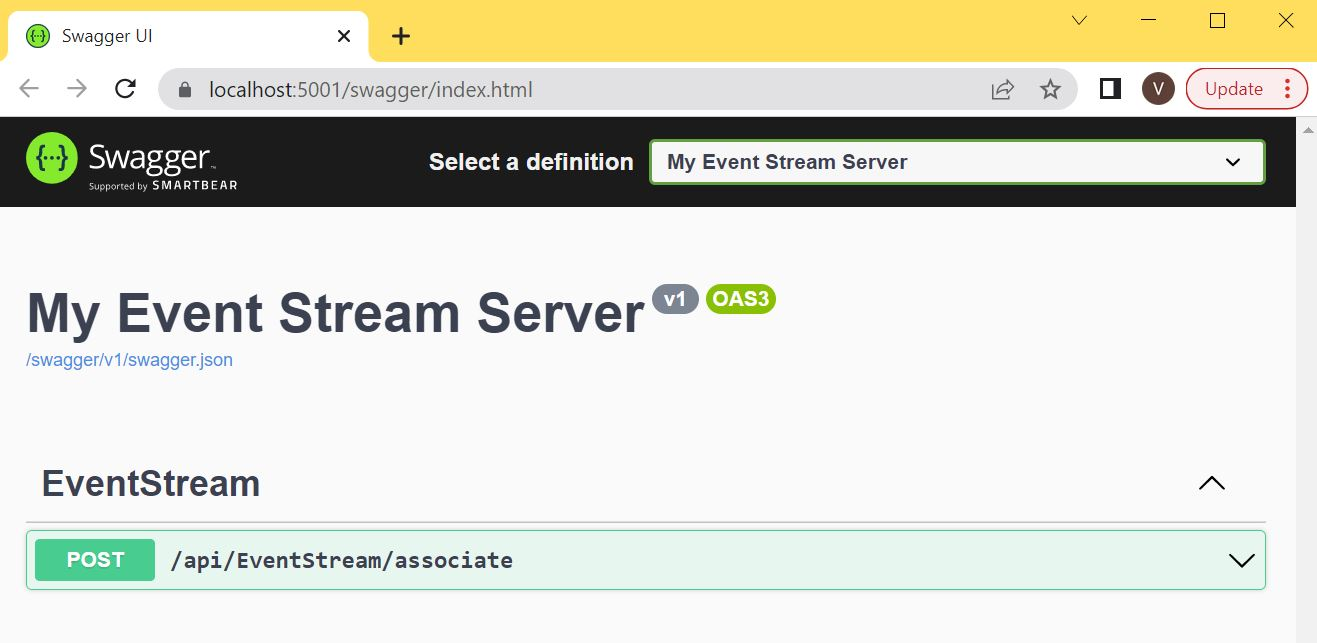
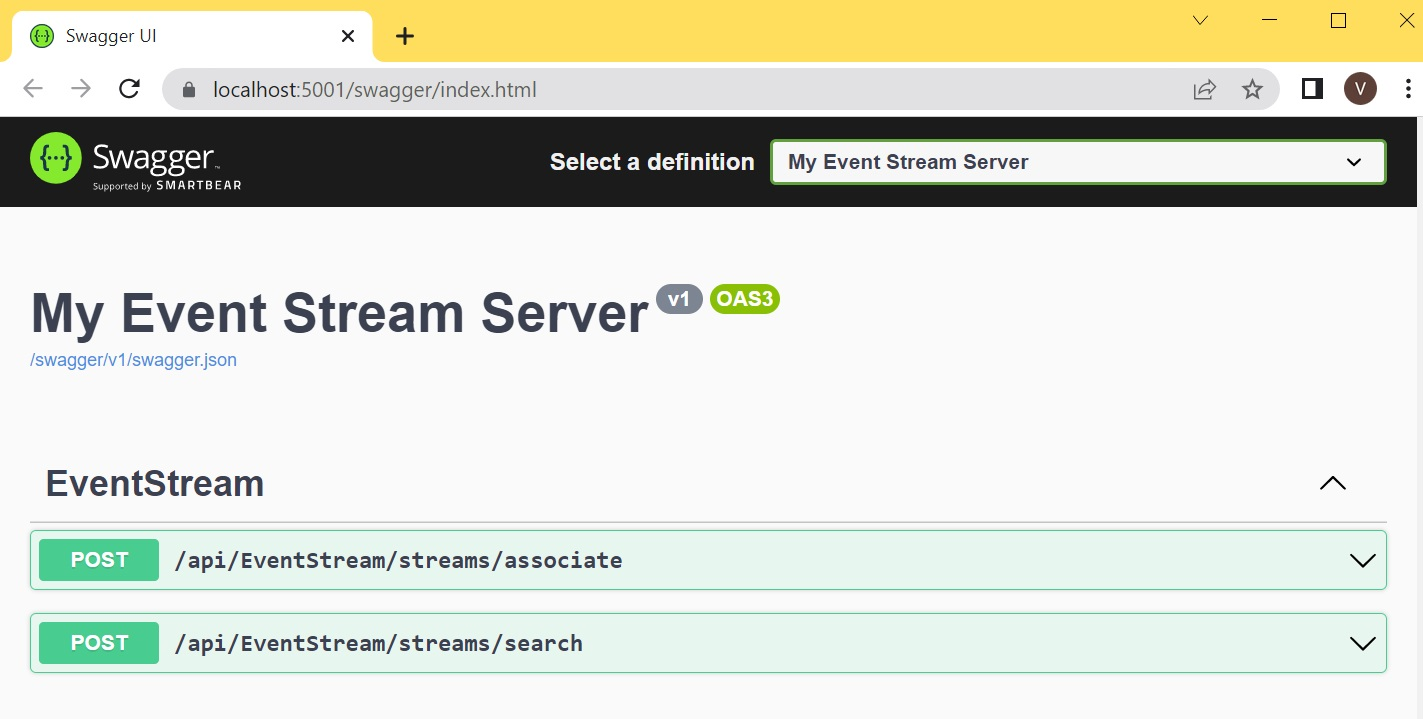
added endpoint to search for streams.

diff --git a/AspNetCore.SignalR.EventStream.Client/Program.cs b/AspNetCore.SignalR.EventStream.Client/Program.cs
@@ -96,7 +96,7 @@ await conn.InvokeAsync("Publish", associateStreamName, new[]
 Console.WriteLine($"Subscribing to Stream {streamName}.");
 await conn.InvokeAsync("Subscribe", streamName, eventType, receiveMethod, subscriberId, subscriberKey, null);
 
-//Console.ReadLine();
+////Console.ReadLine();
 
 using var client = new HttpClient();
 
@@ -106,9 +106,9 @@ var request = new
     Existing = true,
     AssociatedStreams = new[]
     {
-        new 
-        { 
-            Name = associateStreamName 
+        new
+        {
+            Name = associateStreamName
         }
     }
 };
@@ -117,13 +117,43 @@ var content = new StringContent(JsonConvert.SerializeObject(request),
   Encoding.UTF8,
   "application/json");
 
-var result = await client.PostAsync("https://localhost:5001/api/eventstream/associate", content);
+var result = await client.PostAsync("https://localhost:5001/api/eventstream/streams/associate", content);
 
 result.EnsureSuccessStatusCode();
 
 Thread.Sleep(1000);
+Console.WriteLine($"Publishing to Stream {associateStreamName}.");
+await conn.InvokeAsync("Publish", associateStreamName, new[]
+{
+    new {
+        Type = associateStreamEventType + "5",
+        Data = Encoding.UTF8.GetBytes("{\"a\":\"1\"}"),
+        MetaData = Encoding.UTF8.GetBytes("{}"),
+        IsJson = false
+    },
+    new {
+        Type = associateStreamEventType + "6",
+        Data = Encoding.UTF8.GetBytes("{\"a\":\"2\"}"),
+        MetaData = Encoding.UTF8.GetBytes("{}"),
+        IsJson = false
+    },
+    new {
+        Type = associateStreamEventType + "7",
+        Data = Encoding.UTF8.GetBytes("{\"a\":\"3\"}"),
+        MetaData = Encoding.UTF8.GetBytes("{}"),
+        IsJson = false
+    },
+    new {
+        Type = associateStreamEventType + "8",
+        Data = Encoding.UTF8.GetBytes("{\"a\":\"4\"}"),
+        MetaData = Encoding.UTF8.GetBytes("{}"),
+        IsJson = false
+    }
+});
 
 //Console.WriteLine($"Unsubscribing from Stream {streamName}.");
 //await conn.InvokeAsync("Unsubscribe", streamName, subscriberId, subscriberKey);
+
+Thread.Sleep(10000);
 
 Console.ReadLine();

diff --git a/AspNetCore.SignalR.EventStream/Services/EventStreamService.cs b/AspNetCore.SignalR.EventStream/Services/EventStreamService.cs
@@ -12,6 +12,30 @@ namespace AspNetCore.SignalR.EventStream.Services
             _repository = repository;
         }
 
+        public async Task<IEnumerable<EventStreamModel>> SearchStreams(SearchStreamsModel model)
+        {
+            var eventStreams = await _repository.SearchEventStreams(model.Name, model.StreamId);
+
+            var eventStreamModels = new List<EventStreamModel>();
+
+            foreach(var eventStream in eventStreams)
+            {
+                var eventStreamModel = new EventStreamModel
+                {
+                    Id = eventStream.Id,
+                    StreamId = eventStream.StreamId,
+                    Name = eventStream.Name,
+                    LastAssociatedAt = eventStream.LastAssociatedAt,
+                    LastEventInsertedAt = eventStream.LastEventInsertedAt,
+                    CreatedAt = eventStream.CreatedAt
+                };
+
+                eventStreamModels.Add(eventStreamModel);
+            }
+            
+            return eventStreamModels;
+        }
+
         public async Task<Guid> MergeStreams(AssociateStreamsModel mergeStreamModel)
         {
             bool streamExists = false;

diff --git a/AspNetCore.SignalR.EventStream/Repositories/SqlServerRepository.cs b/AspNetCore.SignalR.EventStream/Repositories/SqlServerRepository.cs
@@ -121,6 +121,14 @@ namespace AspNetCore.SignalR.EventStream.Repositories
             return await _context.EventStreamsAssociation.AnyAsync(s => s.StreamId == streamId && s.AssociatedStreamId == associatedStreamId);
         }
 
+        public async Task<IEnumerable<Entities.EventStream>> SearchEventStreams(string? name, Guid? streamId = null)
+        {
+            return await _context.EventsStream.Where(builder => builder.Initial(x => true)
+                                                                       .And(!string.IsNullOrEmpty(name), x => x.Name.ToLower().Contains(name.ToLower()))
+                                                                       .And(streamId.HasValue, x => x.StreamId == streamId.Value)
+                                                                       .ToExpressionPredicate()).ToListAsync();
+        }
+
         public async Task<Entities.EventStream> GetStreamAsync(Guid streamId, DateTime? from = null)
         {
             try

diff --git a/AspNetCore.SignalR.EventStream/Repositories/SqliteRepository.cs b/AspNetCore.SignalR.EventStream/Repositories/SqliteRepository.cs
@@ -123,6 +123,14 @@ namespace AspNetCore.SignalR.EventStream.Repositories
             return await _context.EventStreamsAssociation.AnyAsync(s => s.StreamId == streamId && s.AssociatedStreamId == associatedStreamId);
         }
 
+        public async Task<IEnumerable<Entities.EventStream>> SearchEventStreams(string? name, Guid? streamId = null)
+        {
+            return await _context.EventsStream.Where(builder => builder.Initial(x => true)
+                                                                       .And(!string.IsNullOrEmpty(name), x => x.Name.ToLower().Contains(name.ToLower()))
+                                                                       .And(streamId.HasValue, x => x.StreamId == streamId.Value)
+                                                                       .ToExpressionPredicate()).ToListAsync();
+        }
+
         public async Task<Entities.EventStream> GetStreamAsync(Guid streamId, DateTime? from = null)
         {
             try

diff --git a/AspNetCore.SignalR.EventStream/Controllers/EventStreamController.cs b/AspNetCore.SignalR.EventStream/Controllers/EventStreamController.cs
@@ -17,12 +17,20 @@ namespace AspNetCore.SignalR.EventStream.Controllers
             _streamsService = streamsService;
         }
 
-        [HttpPost("associate")]
-        public async Task<IActionResult> AssociateStreams([FromBody] AssociateStreamsModel mergeStreamsModel)
+        [HttpPost("streams/associate")]
+        public async Task<IActionResult> AssociateStreams([FromBody] AssociateStreamsModel associateStreamsModel)
         {
-            var mergedStream = await _streamsService.MergeStreams(mergeStreamsModel);
+            var mergedStream = await _streamsService.MergeStreams(associateStreamsModel);
 
             return Ok(mergedStream);
+        }
+
+        [HttpPost("streams/search")]
+        public async Task<IActionResult> SearchStreams([FromBody] SearchStreamsModel searchStreamsModel)
+        {
+            var streams = await _streamsService.SearchStreams(searchStreamsModel);
+
+            return Ok(streams);
         }
     }
 }

diff --git a/AspNetCore.SignalR.EventStream/Processors/SubscriptionProcessor.cs b/AspNetCore.SignalR.EventStream/Processors/SubscriptionProcessor.cs
@@ -82,7 +82,7 @@ namespace AspNetCore.SignalR.EventStream.Processors
                                             StreamId = subsciptionWithEvents.StreamId,
                                             SubscriberId = subsciptionWithEvents.SubscriberId,
                                             LastAccessedEventAt = subsciptionWithEvents.LastAccessedEventAt,
-                                            Stream = new EventStreamModel
+                                            Stream = new EventStreamModelResult
                                             {
                                                 Name = subsciptionWithEvents.Stream.Name,
                                                 Events = subsciptionWithEvents.Stream.Events.Select(x => new EventModelResult

diff --git a/AspNetCore.SignalR.EventStream/Models/EventStreamModel.cs b/AspNetCore.SignalR.EventStream/Models/EventStreamModel.cs
@@ -3,9 +3,10 @@
     public class EventStreamModel
     {
         public long Id { get; set; }
-        public Guid StreamId { get; set; }        
-        public string Name { get; set; }
-        public DateTimeOffset CreatedAt { get; set; } = DateTime.UtcNow;
-        public virtual ICollection<EventModelResult> Events { get; set; }
+        public Guid StreamId { get; set; }
+        public string? Name { get; set; }
+        public DateTimeOffset CreatedAt { get; set; }
+        public DateTimeOffset? LastEventInsertedAt { get; set; }
+        public DateTimeOffset? LastAssociatedAt { get; set; }
     }
 }

diff --git a/AspNetCore.SignalR.EventStream/Models/EventStreamModelResult.cs b/AspNetCore.SignalR.EventStream/Models/EventStreamModelResult.cs
@@ -1,0 +1,11 @@
+namespace AspNetCore.SignalR.EventStream.Models
+{
+    public class EventStreamModelResult
+    {
+        public long Id { get; set; }
+        public Guid StreamId { get; set; }        
+        public string Name { get; set; }
+        public DateTimeOffset CreatedAt { get; set; } = DateTime.UtcNow;
+        public virtual ICollection<EventModelResult> Events { get; set; }
+    }
+}

diff --git a/AspNetCore.SignalR.EventStream/Repositories/IRepository.cs b/AspNetCore.SignalR.EventStream/Repositories/IRepository.cs
@@ -24,5 +24,7 @@ namespace AspNetCore.SignalR.EventStream.Repositories
         Task<bool> DoesStreamExistAsync(string name);
         Task<bool> DoesStreamExistAsync(Guid streamId);
         Task<bool> DoesEventStreamAssociationExistAsync(long streamId, long associatedStreamId);
+
+        Task<IEnumerable<Entities.EventStream>> SearchEventStreams(string? name, Guid? streamId = null);
     }
 }

diff --git a/AspNetCore.SignalR.EventStream/Models/EventStreamSubscriberModel.cs b/AspNetCore.SignalR.EventStream/Models/EventStreamSubscriberModel.cs
@@ -4,7 +4,7 @@
     {
         public long Id { get; set; }
         public long StreamId { get; set; }
-        public virtual EventStreamModel Stream { get; set; }
+        public virtual EventStreamModelResult Stream { get; set; }
         public Guid SubscriberId { get; set; }
         public string? ConnectionId { get; set; }
         public string? ReceiveMethod { get; set; }

diff --git a/AspNetCore.SignalR.EventStream/Services/IEventStreamService.cs b/AspNetCore.SignalR.EventStream/Services/IEventStreamService.cs
@@ -5,5 +5,6 @@ namespace AspNetCore.SignalR.EventStream.Services
     public interface IEventStreamService
     {
         Task<Guid> MergeStreams(AssociateStreamsModel mergeStreamModel);
+        Task<IEnumerable<EventStreamModel>> SearchStreams(SearchStreamsModel model);
     }
 }

diff --git a/AspNetCore.SignalR.EventStream/Models/SearchStreamsModel.cs b/AspNetCore.SignalR.EventStream/Models/SearchStreamsModel.cs
@@ -1,0 +1,8 @@
+namespace AspNetCore.SignalR.EventStream.Models
+{
+    public class SearchStreamsModel
+    {
+        public Guid? StreamId { get; set; }
+        public string? Name { get; set; }
+    }
+}
